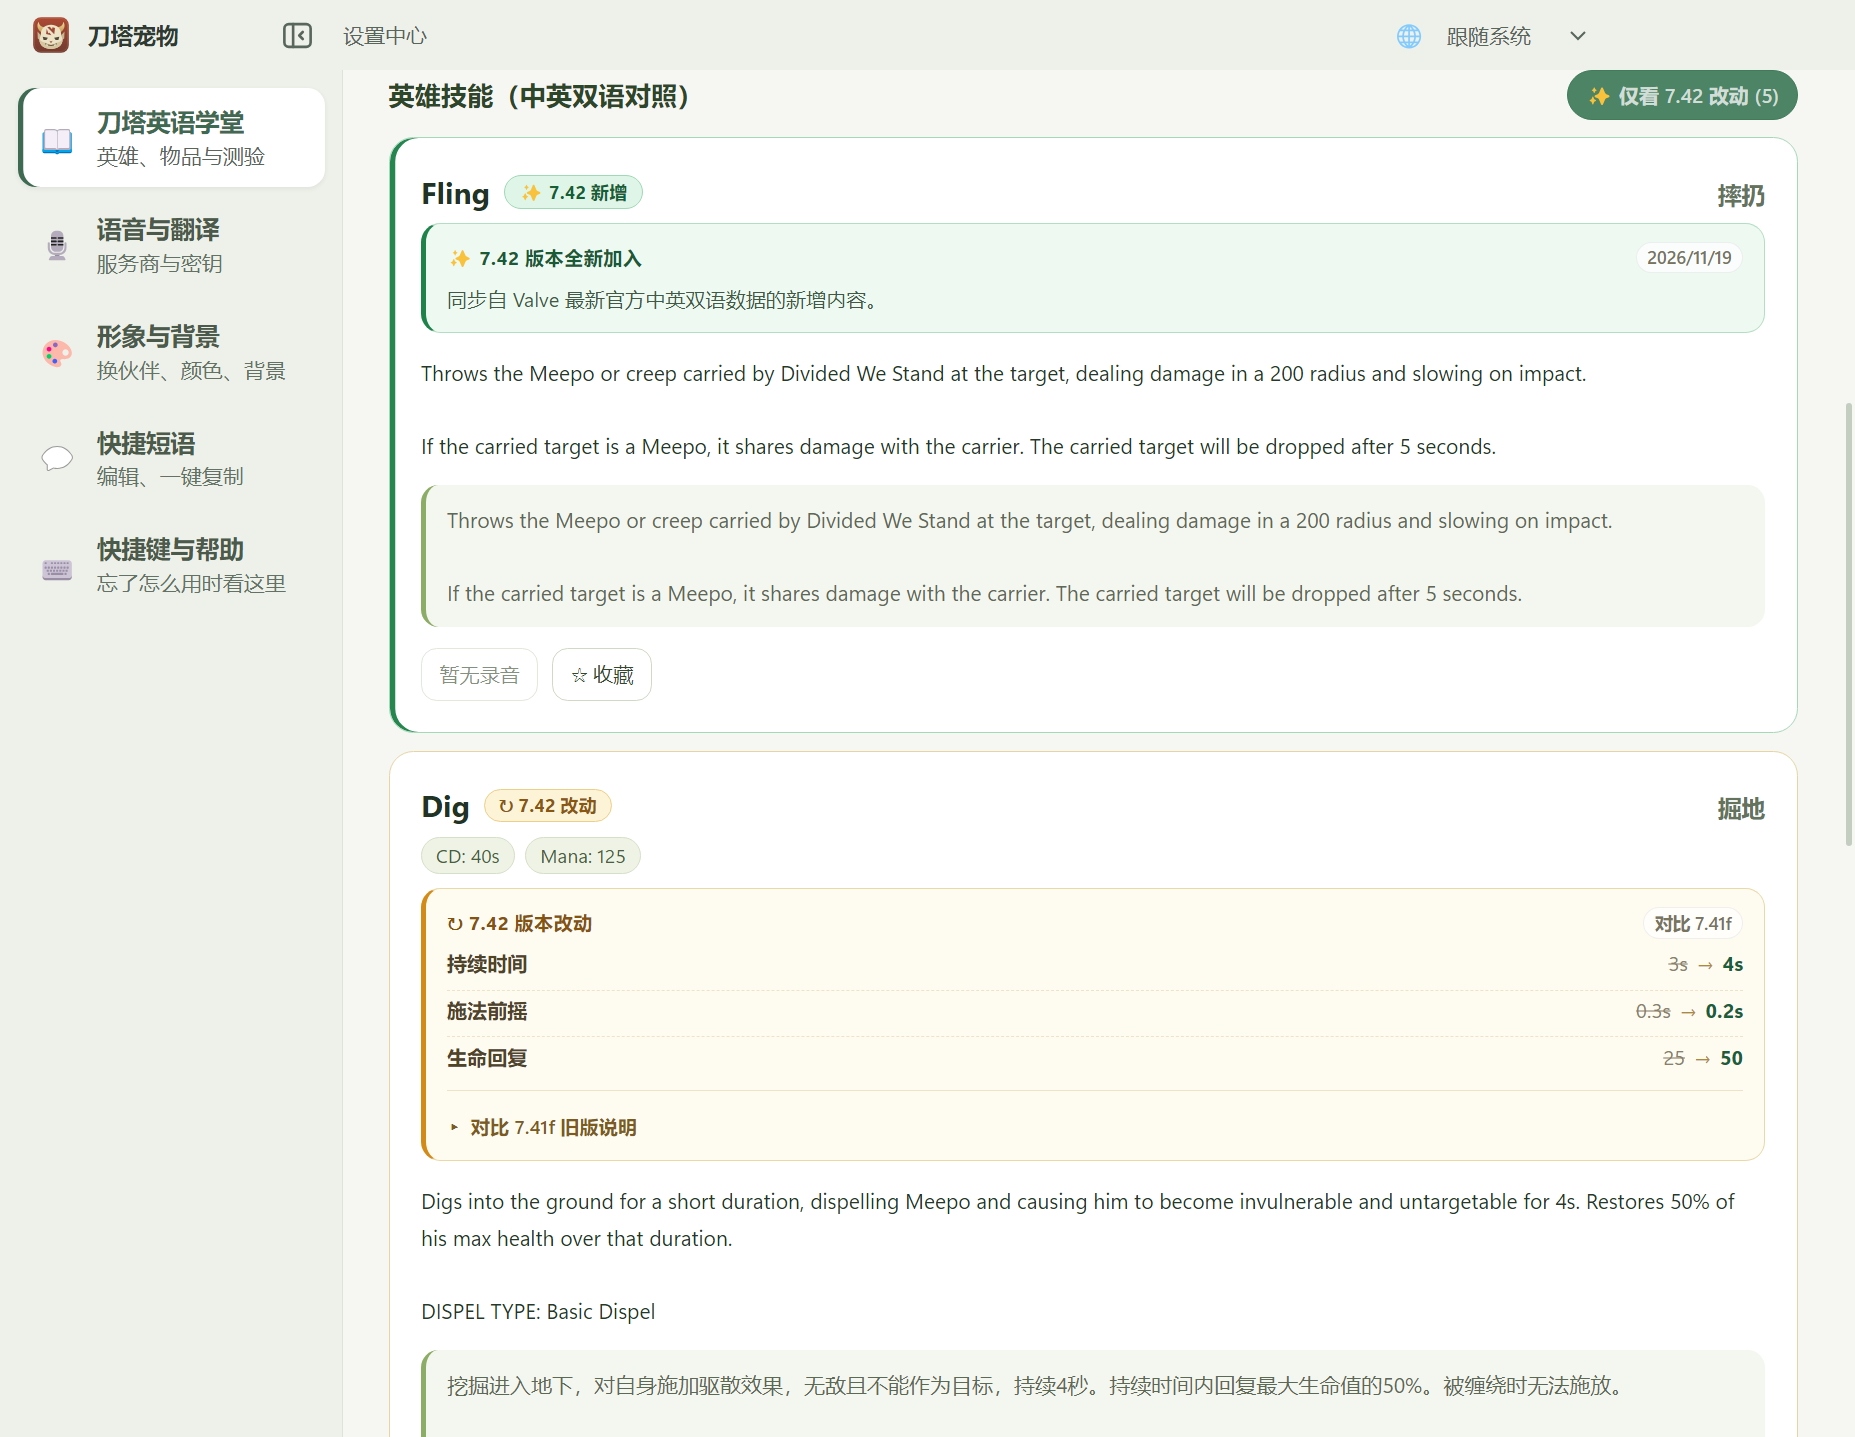
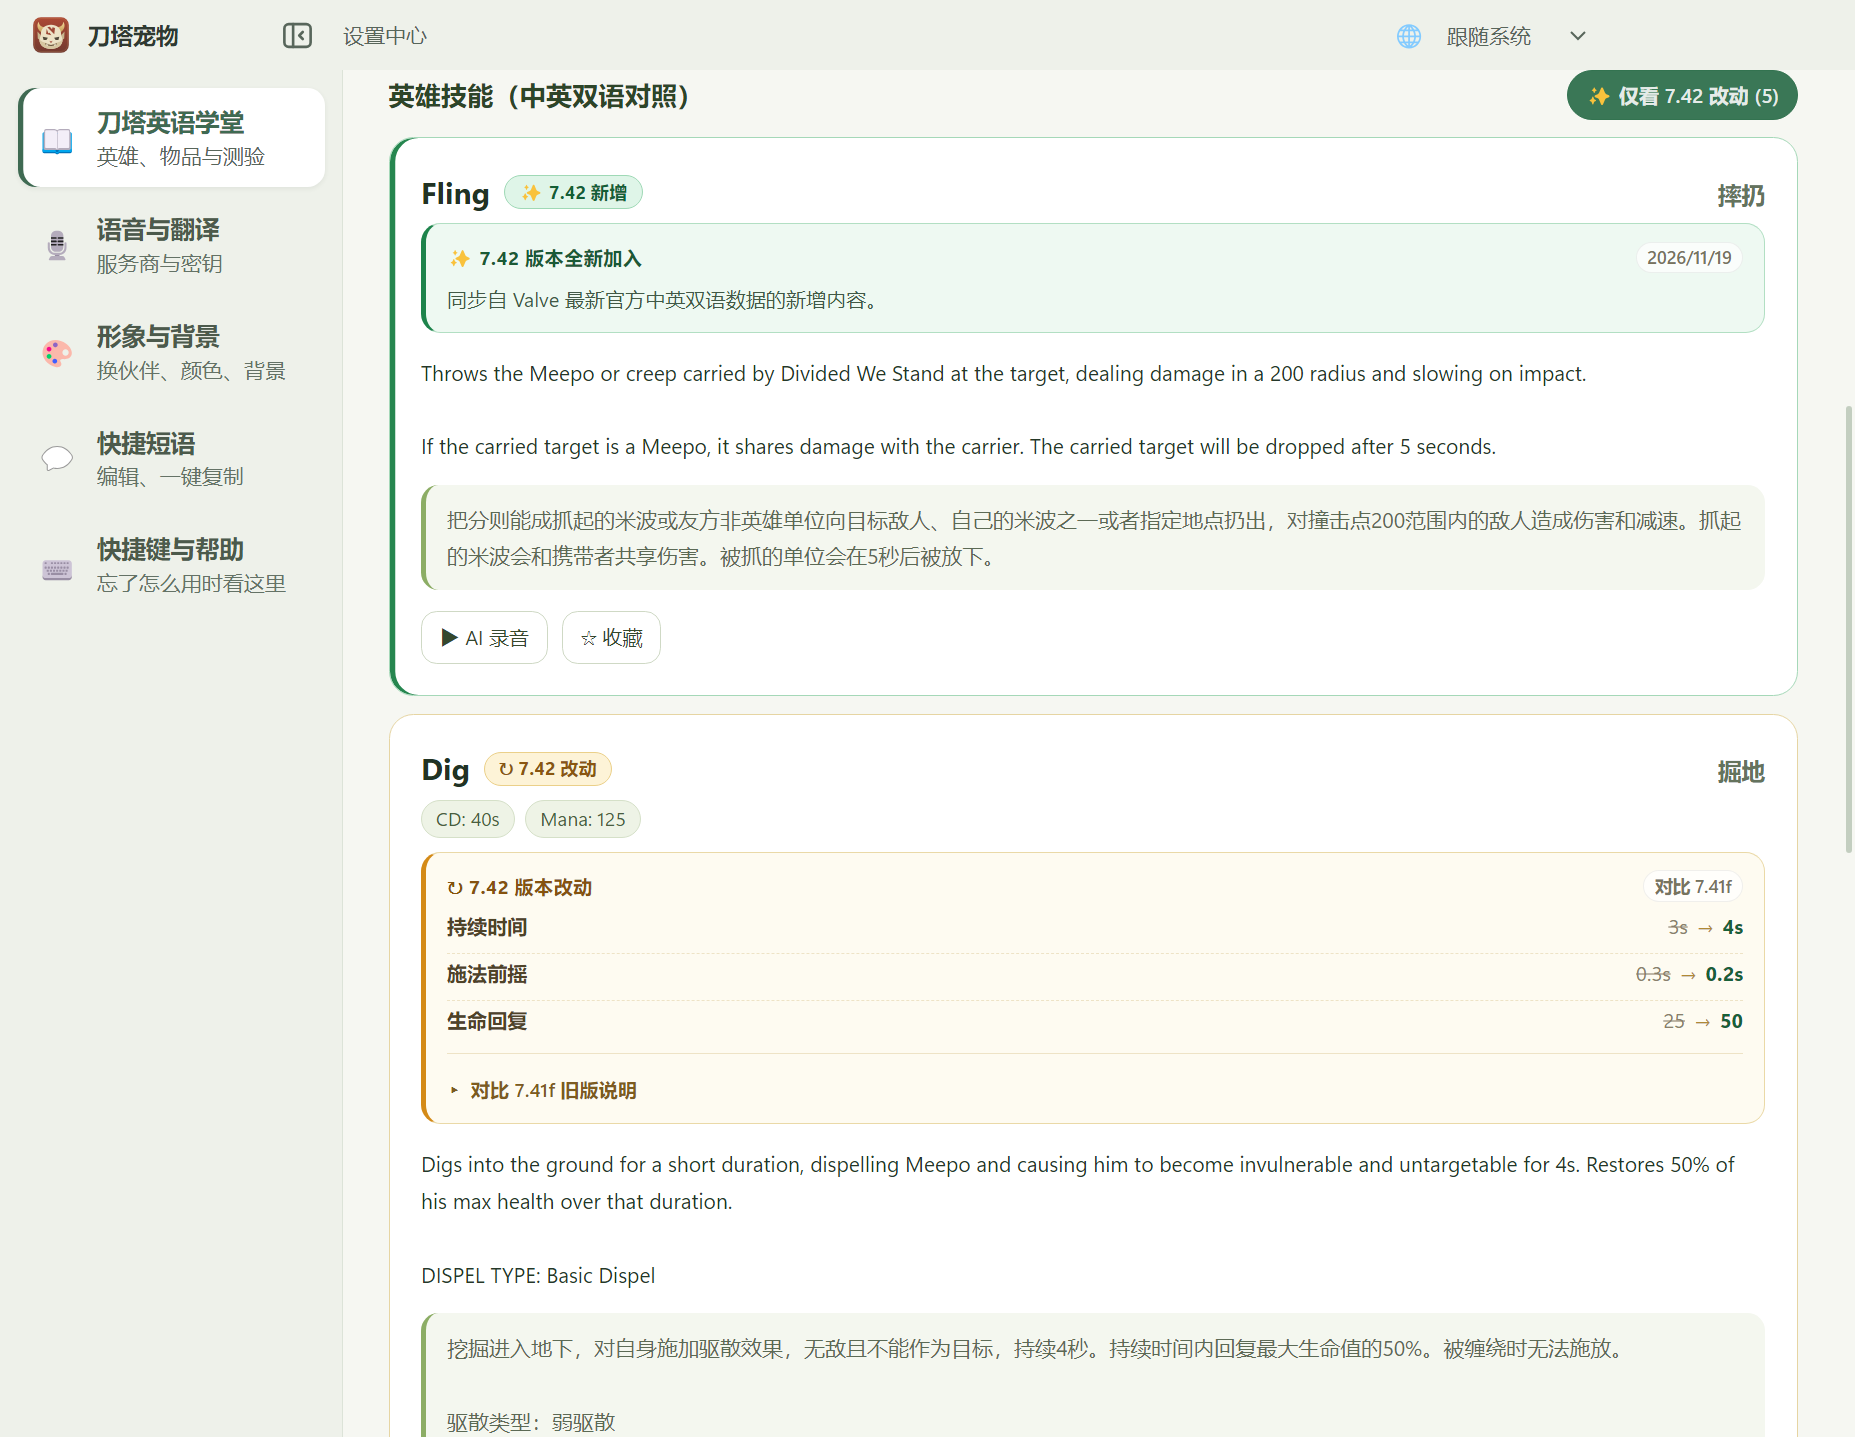
docs(learning): refresh Patch 7.42 preview screenshots and progress log

diff --git a/docs/DOTAPAD_LEARNING_PROGRESS.md b/docs/DOTAPAD_LEARNING_PROGRESS.md
@@ -160,4 +160,10 @@ The original regeneration queue remains an audit candidate report. Source-review
 - Added **`✨ 7.42`** quick filters and visual markers across **Items** (emerald `NEW` micro-badges on the 6 new shop items, clean amber corner dots on changed items, dark-forest hover tooltip diffs, and full before → after diff boxes + collapsible `7.41f` wording comparison inside Study Cards), **Heroes** (hero wall `7.42 NEW` / change-count chips, Hero Detail clickable 7.42 jump pill, `✨ 7.42 changes only` toggle sorting new abilities first, inline ability diff boxes, and a muted Removed Abilities card), and **Explore**.
 - Visually inspected all rendered Electron desktop screenshots across Chinese, English, wide (`1060×820`), and narrow (`620×730`) sizes and iterated to fix modal footer spacing, compact category pill sizing, duplicate EN-only item subtitles, muted 0-match filtered Shop columns, Hero Detail new-first ordering, and Chinese item/ability stat labels.
 - Validation: **305 automated tests passed, 0 failed** (`npm test`, including `tests/test_learning_patch_changes.js`), full Electron desktop smoke (`npm run smoke` with `src/main/learningPatchSmoke.js`) passed, and English UI i18n smoke (`npm run smoke:en`) passed with zero stray Chinese characters.
-- Previews: [Patch 7.42 Explorer Highlights](images/learning-patch-modal-highlights.png), [Patch 7.42 Changed Items](images/learning-patch-modal-items.png), [Shop Filtered to 7.42](images/learning-patch-shop-filtered.png), [Hover Tooltip 7.42 Diff](images/learning-patch-hover-diff.png), [Item Study Card 7.42 Diff](images/learning-patch-item-changed.png), [Hero Detail 7.42 Changes](images/learning-patch-hero-changes.png).
+- Previews: [Patch 7.42 Explorer Highlights](images/learning-patch-modal-highlights.png), [Patch 7.42 Changed Items](images/learning-patch-modal-items.png), [Patch 7.42 New Item Audio & Official Chinese (Starforge)](images/learning-patch-item-new.png), [Shop Filtered to 7.42](images/learning-patch-shop-filtered.png), [Hover Tooltip 7.42 Diff](images/learning-patch-hover-diff.png), [Item Study Card 7.42 Diff](images/learning-patch-item-changed.png), [Hero Detail 7.42 Changes](images/learning-patch-hero-changes.png).
+
+### Official Chinese localizations & bundled Patch 7.42 AI audio
+
+- Verified and applied official `dota2.com.cn` Patch 7.42 Chinese names and verbatim descriptions (`220541.html` / `220540.html`) for all shipped new items and hero abilities: **Bloodslinger / 血腥投带**, **Ristul's Devotion / 瑞斯图尔的奉献**, **Starforge / 锻星炉**, **Skypiercer / 破天之矛** (also resolving Valve's `%disarm_melee%` token), **Balmhook / 镇痛之钩**, **Vile Phial / 邪恶药瓶**, **Greater Horn of Battle / 大战斗号角** (classified under Roshan & Map drops), **Pack Hunter / 狼群猎手**, plus official Chinese descriptions for **Red Ledger / 悬红**, **Brick / 板砖**, **Helm of the Hivemind / 虫巢思维头盔**, and **Fling / 摔扔**. Added bilingual match sentences and player nicknames (`大榴弹`, `大祭品`, `大相位`, `大天堂`, `大陨星锤`, `大战斗号角`) to `src/learning/itemCoaching.js`.
+- Bundled all **26 SHA-256-verified `en-US-JennyNeural` Patch 7.42 MP3 recordings** (all 17 new items + 9 new abilities, 2.72 MB total, reading item/ability names and full English descriptions) directly into `src/renderer/assets/learning-audio/`, cleared `localOnly: true` from `src/learning/audio-manifest.json` and `scripts/generate-patch-audio.py`, and removed their `.gitignore` exclusions so GitHub builds play all new Patch 7.42 audio out of the box.
+- Validation: **306 automated tests passed, 0 failed** (`npm test`), full Electron desktop smoke (`npm run smoke`) passed verifying live `▶ AI 录音` controls and official Chinese names, and English UI smoke (`npm run smoke:en`) passed.
